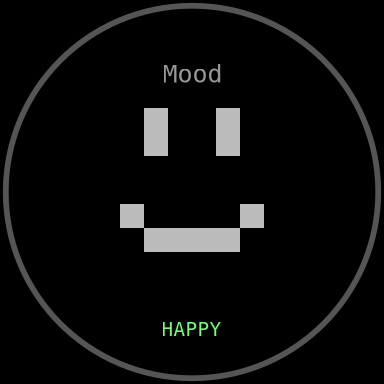
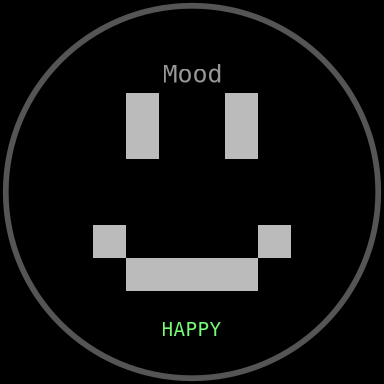
feat: update smiley face display to remove compact mode and adjust documentation

Changed region(s): [[0.2188, 0.5312, 0.7812, 0.7812], [0.5625, 0.2188, 0.6875, 0.4375], [0.3125, 0.2188, 0.4375, 0.4375]]

diff --git a/tutorials/08_smiley_reactive/screenshot.py b/tutorials/08_smiley_reactive/screenshot.py
@@ -10,7 +10,7 @@ Usage:
 
 METADATA = {
     "title": "Smiley — Reactive",
-    "widget": "screen.face(mood, compact=True)",
+    "widget": "screen.face(mood)",
     "description": "Compact face with title and mood label, reactive to sensor input",
 }
 
@@ -33,7 +33,7 @@ screen = Screen(backend)
 # --- Same drawing code as main.py, with fixed values ---
 screen.clear()
 screen.title("Mood")
-screen.face("happy", compact=True)
+screen.face("happy")
 screen.subtitle("HAPPY", color=GREEN)
 screen.show()
 

diff --git a/tutorials/08_smiley_reactive/main.py b/tutorials/08_smiley_reactive/main.py
@@ -47,7 +47,7 @@ while True:
 
     screen.clear()
     screen.title("Mood")
-    screen.face(expr, compact=True, color=color)
+    screen.face(expr, color=color)
     screen.subtitle(label, "dist:{}mm".format(dist))
     screen.show()
 

diff --git a/docs/mockups/README.md b/docs/mockups/README.md
@@ -137,7 +137,7 @@ Each card shows the SVG reference mockup alongside the Pillow simulation, with t
       <strong><a href='../../tutorials/08_smiley_reactive/main.py'>Smiley — Reactive</a></strong><br><br>
       <img src='08_smiley_reactive.svg' width='180' title='SVG reference'>&nbsp;<img src='08_smiley_reactive_sim.png' width='180' title='Simulation'><br>
       <sub>SVG&nbsp;reference&nbsp;&nbsp;·&nbsp;&nbsp;Simulation</sub><br>
-      <br><code>screen.face(mood, compact=True)</code><br>
+      <br><code>screen.face(mood)</code><br>
       <sub>Compact face with title and mood label, reactive to sensor input</sub><br>
       <sub>SSIM&nbsp;0.9732&nbsp;✅</sub>
     </td>
